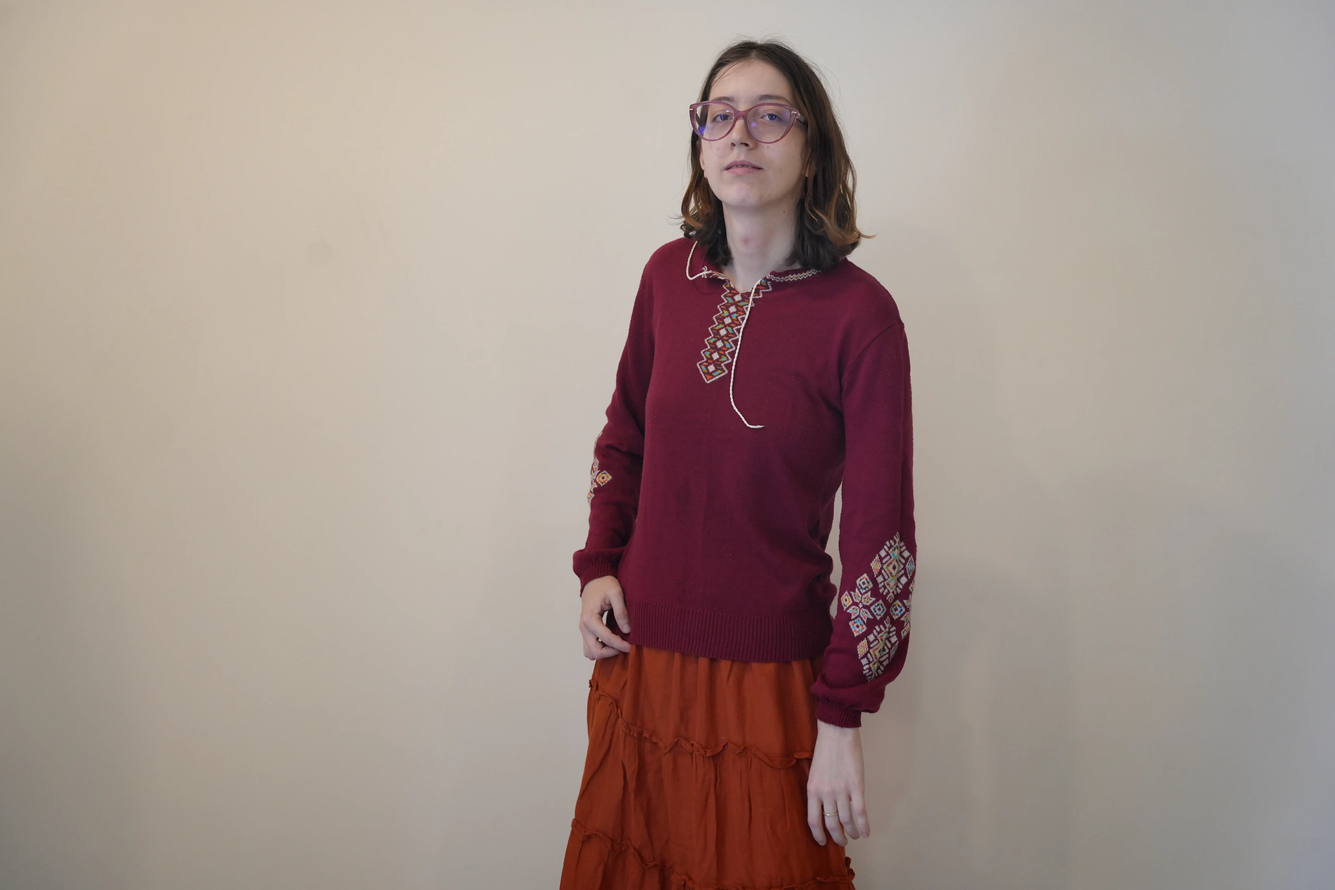
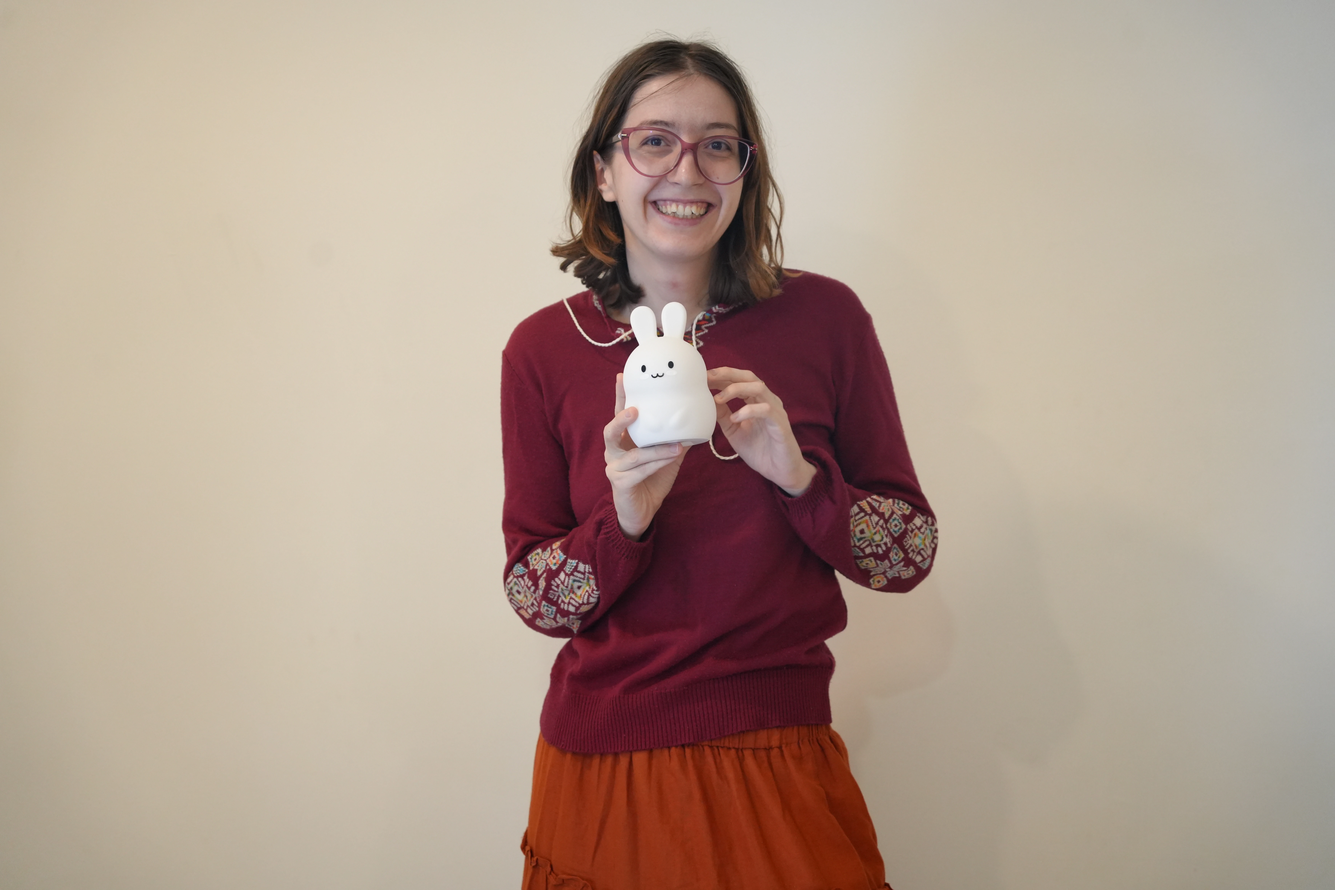
Update Raluca's portrait and refine a bio sentence
- Replace Raluca0.webp with an improved portrait
- Tweak one bio sentence in js/data.js

diff --git a/js/data.js b/js/data.js
@@ -3,7 +3,6 @@
 
    - Names verified against credits.txt
    - "portraits" array: 3 images for cast, 2 for everyone else
-   - Replace bio1/bio2 lorem ipsum with real text later
    ============================================================ */
 
 const TEAM = {
@@ -25,7 +24,7 @@ const TEAM = {
     name: 'Caitlin Neall-Johnston',
     role: 'DIRECTOR, ASSISTANT PRODUCER',
     portraits: ['Caitlin1.webp', 'Caitlin2.webp'],
-    bio1: 'Despite growing up across seven countries (+ two extra Minerva ones), Caitlin has yet to lay eyes on a red rabbit in person.',
+    bio1: 'When not on stage or in the rehearsal room, you can find Caitlin climbing trees, examining rocks, or coworking on assigments for university. ',
     bio2: 'Caitlin has experience acting in theatre productions at a high-school and university level, and has recently found so much joy in leading rehearsals and organising productions as director for HOWL theatre group.',
   },
   Almira: {
